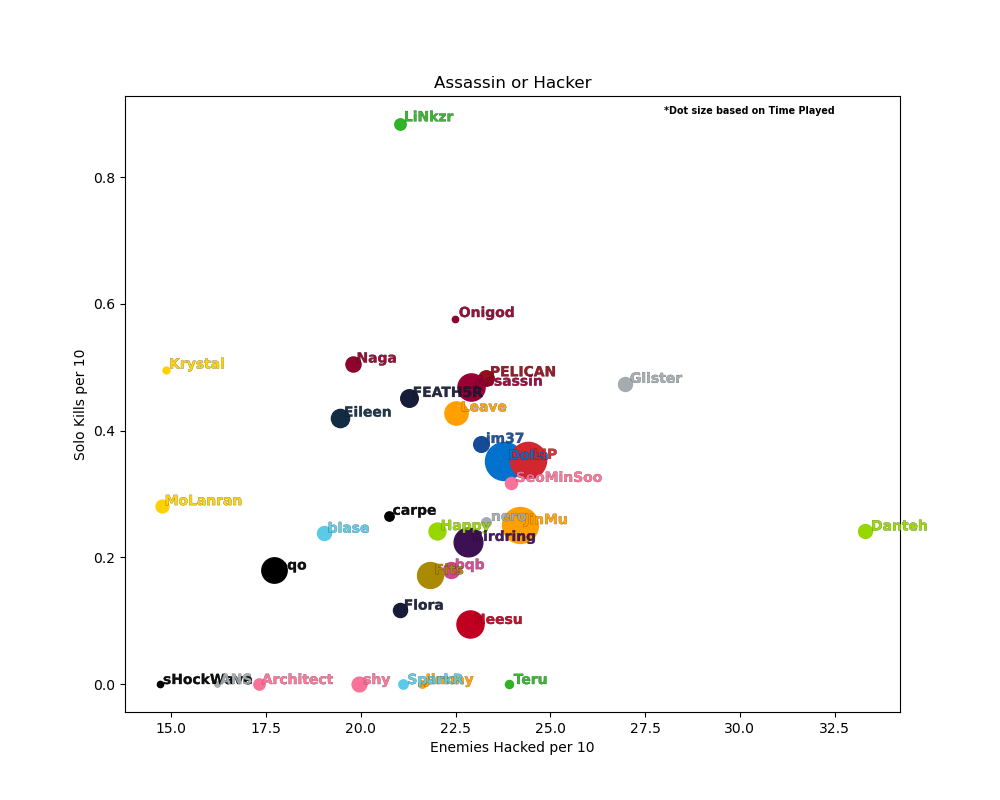
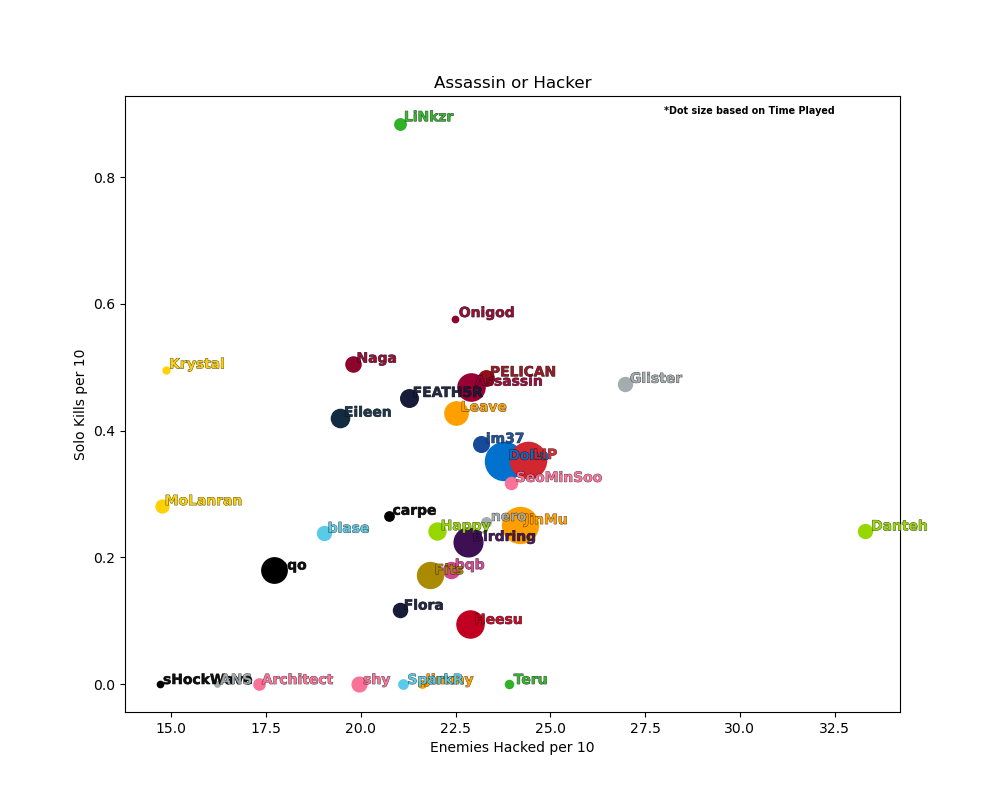
update graphs

diff --git a/plots_2021/sombra_graph.py b/plots_2021/sombra_graph.py
@@ -70,7 +70,7 @@ def plot_stats(frame, x_label, y_label, size_label, size_scale=1.0):
         team = row['team_name']
         color = Teams.TeamColors[team]
         txt = plt.text(x * 1.005, y * 1.005, label, color=color, weight='bold', alpha=.75)
-        txt.set_path_effects([path_effects.withStroke(linewidth=.25, foreground='k')])
+        txt.set_path_effects([path_effects.withStroke(linewidth=.5, foreground='k')])
 
     return fig
 
